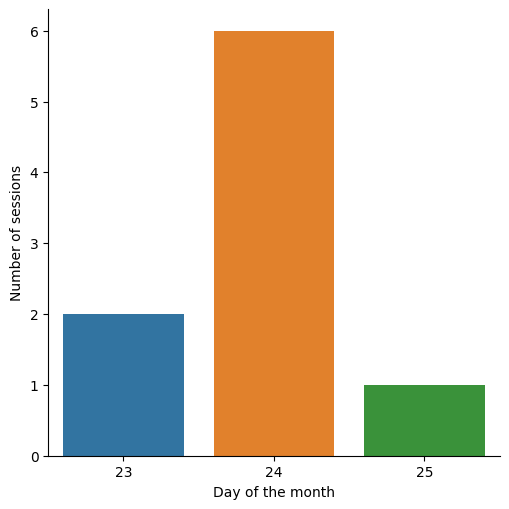
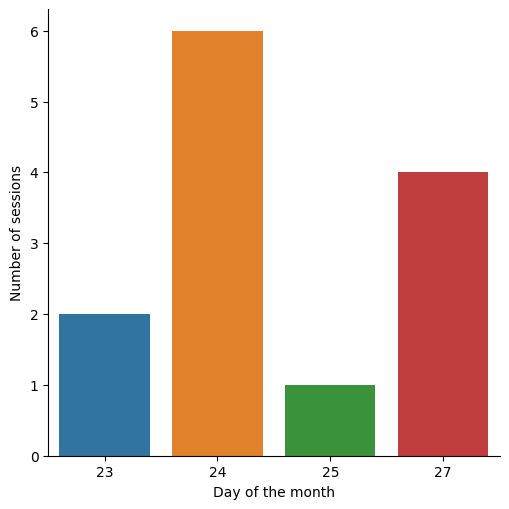
"Stats generated 2021-09-28"

diff --git a/all/2021/9/weekdays/0/index.html b/all/2021/9/weekdays/0/index.html
@@ -1,0 +1,29 @@
+<!DOCTYPE html>
+<html>
+  <head>
+    <meta charset="utf-8"/>
+    <title>Mondays September 2021</title>
+    <link rel="stylesheet" href="../../../../../styles.css"/>
+  </head>
+  <body>
+    <div id="container">
+      <nav>
+        <ul>
+          
+            <li><a href="../../">September 2021</a></li>
+            <li class="separator"></li>
+          
+          
+        </ul>
+      </nav>
+      <main>
+        <h1>Mondays September 2021</h1>
+        
+          <h2>Number of sessions per hour</h2>
+          <img src="sessions.png" alt="Number of sessions per hour"/>
+        
+        
+      </main>
+    </div>
+  </body>
+</html>

diff --git a/all/2021/9/days/27/index.html b/all/2021/9/days/27/index.html
@@ -1,0 +1,29 @@
+<!DOCTYPE html>
+<html>
+  <head>
+    <meta charset="utf-8"/>
+    <title>27 September 2021</title>
+    <link rel="stylesheet" href="../../../../../styles.css"/>
+  </head>
+  <body>
+    <div id="container">
+      <nav>
+        <ul>
+          
+            <li><a href="../../">September 2021</a></li>
+            <li class="separator"></li>
+          
+          
+        </ul>
+      </nav>
+      <main>
+        <h1>27 September 2021</h1>
+        
+          <h2>Number of sessions per hour</h2>
+          <img src="sessions.png" alt="Number of sessions per hour"/>
+        
+        
+      </main>
+    </div>
+  </body>
+</html>

diff --git a/all/2021/9/index.html b/all/2021/9/index.html
@@ -19,6 +19,10 @@
             
           
             
+              <li><a href="weekdays/0/">Monday</a></li>
+            
+          
+            
               <li><a href="weekdays/3/">Thursday</a></li>
             
           
@@ -44,6 +48,10 @@
           
             
               <li><a href="days/25/">25</a></li>
+            
+          
+            
+              <li><a href="days/27/">27</a></li>
             
           
         </ul>

diff --git a/all/2021/index.html b/all/2021/index.html
@@ -129,9 +129,9 @@
                   
                     <td>9.0</td>
                   
-                    <td>9.0</td>
+                    <td>13.0</td>
                   
-                    <td>23.314461133333335</td>
+                    <td>23.330518816666665</td>
                   
                 </tr>
               
